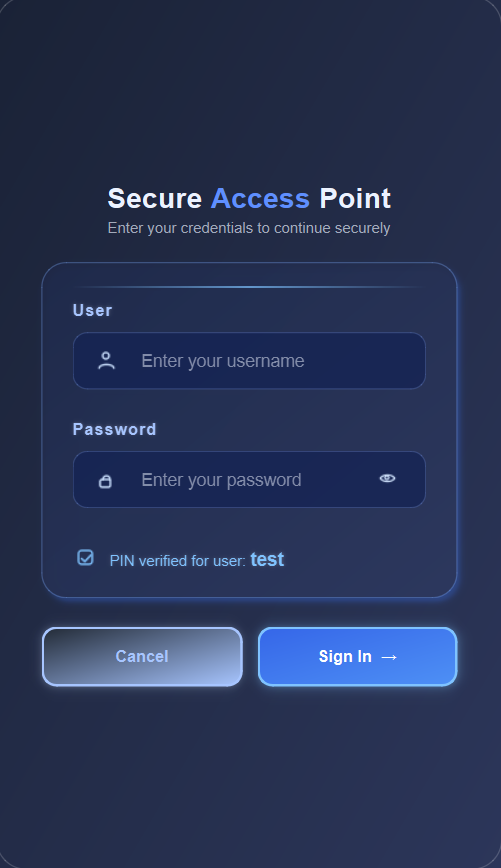
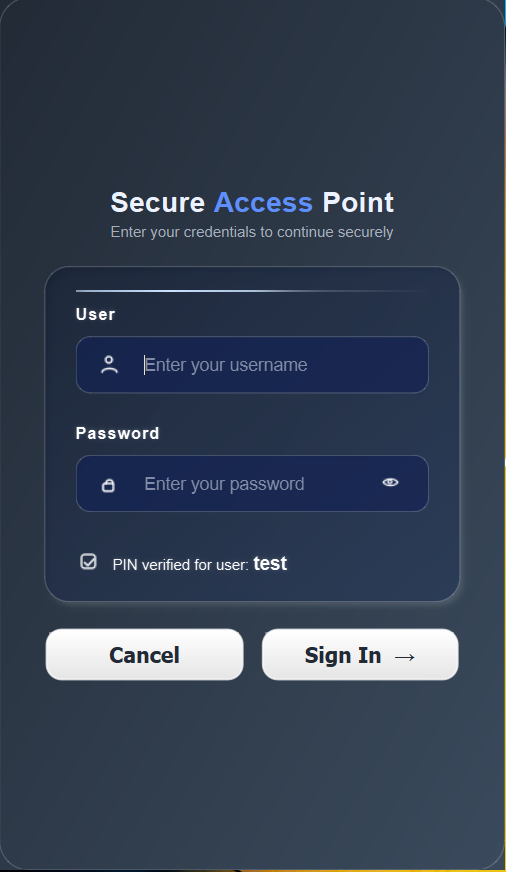
fix: perbaiki efek timbul tombol credentials & error import QGraphicsDropShadowEffect

diff --git a/src/ui/custom_button.py b/src/ui/custom_button.py
@@ -1,24 +1,107 @@
+
 from PySide6.QtWidgets import QPushButton
-from PySide6.QtGui import QPainter, QLinearGradient, QColor, QBrush, QPen, QFont
-from PySide6.QtCore import Qt, QRectF
+from PySide6.QtGui import QPainter, QLinearGradient, QColor, QBrush, QPen, QFont, QIcon
+from PySide6.QtCore import Qt, QRectF, QSize, QEvent
 
 class CustomButton(QPushButton):
+    def __init__(self, text, *, primary=False, icon: QIcon = None, icon_size: QSize = QSize(20, 20), parent=None):
+        super().__init__(text, parent)
+        self.primary = primary
+        self._hovered = False
+        self._pressed = False
+        self._icon = icon
+        self._icon_size = icon_size
+        self._custom_bg = None  # QColor or None
+        self.setCursor(Qt.PointingHandCursor)
+        self.setStyleSheet("border: none; background: transparent; font-weight: 600; font-family: 'SF Pro Display', Arial, sans-serif;")
+        self.setMinimumHeight(44)
+        self.setContentsMargins(0, 0, 0, 0)
+        self.setMouseTracking(True)
+        self.installEventFilter(self)
+
+    def eventFilter(self, obj, event):
+        if event.type() == QEvent.Enter:
+            self._hovered = True
+            self.update()
+        elif event.type() == QEvent.Leave:
+            self._hovered = False
+            self.update()
+        elif event.type() == QEvent.MouseButtonPress:
+            self._pressed = True
+            self.update()
+        elif event.type() == QEvent.MouseButtonRelease:
+            self._pressed = False
+            self.update()
+        return super().eventFilter(obj, event)
+
     def paintEvent(self, event):
         painter = QPainter(self)
         painter.setRenderHint(QPainter.Antialiasing)
-        rect = self.rect().adjusted(2, 2, -2, -2)
-        # Gradient body seperti body gembok login.py
-        grad = QLinearGradient(rect.topLeft(), rect.bottomLeft())
-        grad.setColorAt(0.0, QColor(255, 255, 255))
-        grad.setColorAt(1.0, QColor(230, 230, 230))
-        painter.setBrush(QBrush(grad))
-        painter.setPen(QPen(QColor(255, 255, 255, 180), 1.5))
-        painter.drawRoundedRect(rect, 12, 12)
-        # Highlight garis putih di atas/kiri
-        painter.setPen(QPen(QColor(255, 255, 255, 100), 2))
-        painter.drawLine(rect.left()+3, rect.top()+3, rect.right()-3, rect.top()+3)
-        # Teks tombol
-        painter.setPen(QColor(34, 42, 54))
-        font = QFont('SF Pro Display', 13, QFont.Bold)
+        rect = self.rect().adjusted(1, 1, -1, -1)
+        radius = 12
+        # Primary style
+        if self._custom_bg is not None:
+            # Gunakan warna custom (misal: warna gembok)
+            painter.setBrush(QBrush(self._custom_bg))
+            painter.setPen(Qt.NoPen)
+            painter.drawRoundedRect(rect, radius, radius)
+        elif self.primary:
+            grad = QLinearGradient(rect.topLeft(), rect.topRight())
+            if self._hovered:
+                grad.setColorAt(0.0, QColor("#4F98F7"))
+                grad.setColorAt(1.0, QColor("#7EC8FA"))
+            else:
+                grad.setColorAt(0.0, QColor("#3B82F6"))
+                grad.setColorAt(1.0, QColor("#60A5FA"))
+            painter.setBrush(QBrush(grad))
+            painter.setPen(Qt.NoPen)
+            painter.drawRoundedRect(rect, radius, radius)
+            # Shadow
+            if self._hovered or self._pressed:
+                painter.setPen(Qt.NoPen)
+                painter.setBrush(QColor(80, 180, 255, 60))
+                painter.drawRoundedRect(rect.adjusted(-2, -2, 2, 2), radius+2, radius+2)
+            # Glow effect
+            if self._hovered:
+                painter.setPen(Qt.NoPen)
+                painter.setBrush(QColor(80, 180, 255, 40))
+                painter.drawRoundedRect(rect.adjusted(-4, -4, 4, 4), radius+4, radius+4)
+        else:
+            # Secondary style
+            bg = QColor("#2A2F3A") if not self._hovered else QColor("#353B47")
+            painter.setBrush(bg)
+            painter.setPen(QPen(QColor(255,255,255,50), 1))
+            painter.drawRoundedRect(rect, radius, radius)
+
+        # Active (pressed) effect
+        if self._pressed:
+            painter.save()
+            painter.setOpacity(0.92)
+            painter.scale(0.97, 0.97)
+            painter.restore()
+
+        # Draw text and icon
+        text = self.text()
+        font = QFont('SF Pro Display', 13, QFont.DemiBold)
         painter.setFont(font)
-        painter.drawText(rect, Qt.AlignCenter, self.text())
+        color = QColor("#FFFFFF") if self.primary else QColor("#E6EAF3")
+        painter.setPen(color)
+        padding_x = 24
+        icon_space = self._icon_size.width() + 8 if self._icon else 0
+        # Center text and icon
+        text_rect = rect.adjusted(padding_x, 0, -padding_x - icon_space, 0)
+        painter.drawText(text_rect, Qt.AlignVCenter | Qt.AlignLeft, text)
+        if self._icon:
+            icon_rect = QRectF(rect.right() - padding_x - self._icon_size.width(),
+                               rect.center().y() - self._icon_size.height()/2,
+                               self._icon_size.width(), self._icon_size.height())
+            self._icon.paint(painter, icon_rect.toRect(), Qt.AlignCenter)
+
+    def setPrimary(self, value: bool):
+        self.primary = value
+        self.update()
+
+    def setButtonIcon(self, icon: QIcon, size: QSize = QSize(20, 20)):
+        self._icon = icon
+        self._icon_size = size
+        self.update()

diff --git a/src/ui/credentials_login.py b/src/ui/credentials_login.py
@@ -3,8 +3,9 @@ from typing import Optional
 from PySide6.QtCore import QSize, Qt
 from PySide6.QtGui import QColor, QIcon, QPainter, QPainterPath, QPen, QPixmap
 from PySide6.QtWidgets import (
-    QApplication, QDialog, QFrame, QGraphicsDropShadowEffect, QHBoxLayout, QLabel, QLineEdit, QMessageBox, QToolButton, QVBoxLayout, QWidget
+    QApplication, QDialog, QFrame, QHBoxLayout, QLabel, QLineEdit, QMessageBox, QToolButton, QVBoxLayout, QWidget
 )
+from PySide6.QtWidgets import QGraphicsDropShadowEffect
 from ui.custom_button import CustomButton
 from PySide6.QtGui import QColor
 
@@ -522,10 +523,32 @@ def show_credentials_login(app: QApplication, pin_user: User, parent: Optional[Q
 
     buttons = QHBoxLayout()
     buttons.setSpacing(12)
-    cancel_btn = CustomButton("Cancel")
+    # Icon panah kanan untuk tombol Sign In
+    arrow_pixmap = QPixmap(20, 20)
+    arrow_pixmap.fill(Qt.GlobalColor.transparent)
+    painter = QPainter(arrow_pixmap)
+    painter.setRenderHint(QPainter.Antialiasing)
+    pen = QPen(QColor("#FFFFFF"), 2.2)
+    pen.setCapStyle(Qt.PenCapStyle.RoundCap)
+    painter.setPen(pen)
+    # Draw right arrow
+    painter.drawLine(6, 10, 14, 10)
+    painter.drawLine(11, 7, 14, 10)
+    painter.drawLine(11, 13, 14, 10)
+    painter.end()
+    arrow_icon = QIcon(arrow_pixmap)
+
+    cancel_btn = CustomButton("Cancel", primary=False)
     cancel_btn.setFixedHeight(44)
-    submit_btn = CustomButton("Sign In  →")
+    submit_btn = CustomButton("Sign In", primary=True, icon=arrow_icon, icon_size=QSize(20, 20))
     submit_btn.setFixedHeight(44)
+    # Tambahkan efek shadow/timbul pada kedua tombol
+    for btn in [cancel_btn, submit_btn]:
+        shadow = QGraphicsDropShadowEffect(btn)
+        shadow.setBlurRadius(18)
+        shadow.setOffset(0, 3)
+        shadow.setColor(QColor(60, 60, 80, 120))
+        btn.setGraphicsEffect(shadow)
     buttons.addWidget(cancel_btn, 1)
     buttons.addWidget(submit_btn, 1)
     root_layout.addLayout(buttons)
@@ -598,9 +621,25 @@ def show_credentials_login(app: QApplication, pin_user: User, parent: Optional[Q
                 eff.setColor(QColor(glow_color.red(), glow_color.green(), glow_color.blue(), glow_alpha))
                 eff.setBlurRadius(12 if charging else 7)
 
-        # Update tombol Cancel dan Sign In: gradient + glow harmonis
-        # CustomButton: tidak perlu setStyleSheet atau graphicsEffect untuk tombol
-        pass
+        # Update tombol Cancel dan Sign In agar warna sesuai status charging
+        if charging:
+            # Default CustomButton: biru terang
+            for btn in [cancel_btn, submit_btn]:
+                btn.setStyleSheet("border: none; background: transparent; font-weight: 600; font-family: 'SF Pro Display', Arial, sans-serif;")
+                eff = btn.graphicsEffect()
+                if isinstance(eff, QGraphicsDropShadowEffect):
+                    eff.setColor(QColor(80, 180, 255, 120))
+                    eff.setBlurRadius(22)
+        else:
+            # Warna seperti gembok login.py: body_color = QColor(60, 60, 80, 220)
+            for btn in [cancel_btn, submit_btn]:
+                btn.setStyleSheet("border: none; background: transparent; font-weight: 600; font-family: 'SF Pro Display', Arial, sans-serif;")
+                btn._custom_bg = QColor(60, 60, 80, 220)
+                btn.update()
+                eff = btn.graphicsEffect()
+                if isinstance(eff, QGraphicsDropShadowEffect):
+                    eff.setColor(QColor(60, 60, 80, 120))
+                    eff.setBlurRadius(18)
 
         # Update card shadow
         if charging:
